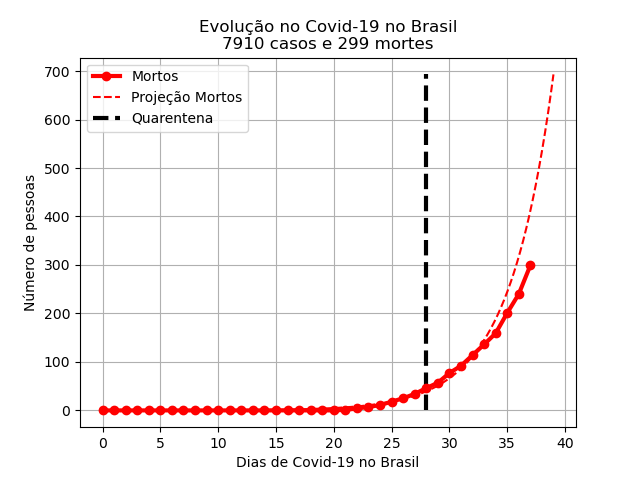
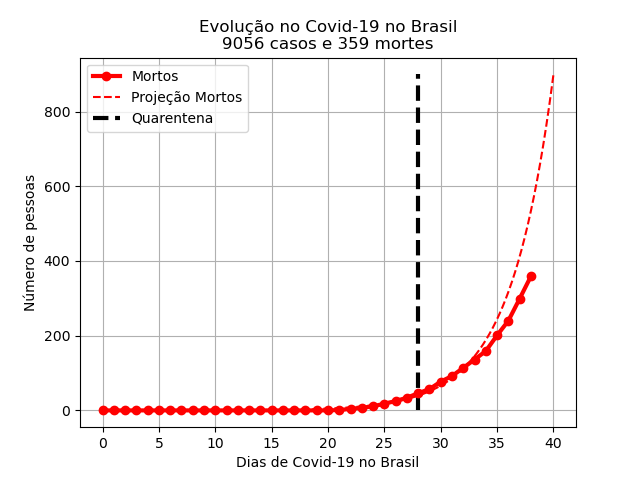
update covid

diff --git a/covid-19.html b/covid-19.html
@@ -102,7 +102,7 @@
     <div class="main">
         <h1> Acompanhe a evolução do Covid-19 no Brasil </h1>
 
-        <p>Atualização: 02/04/2020</p>
+        <p>Atualização: 03/04/2020</p>
         <p> A pandemia de coronavírus está evoluindo ao redor do mundo. No Brasil os casos estão aumentando a cada dia. Medidas de contenção estão sendo empregadas para evitar que o número de infectados aumente. Veja como está a evolução no gráfico a seguir.</p>
         
         <a class="aulaImg"><img class="aula" src="images/covid19.png"></a>
